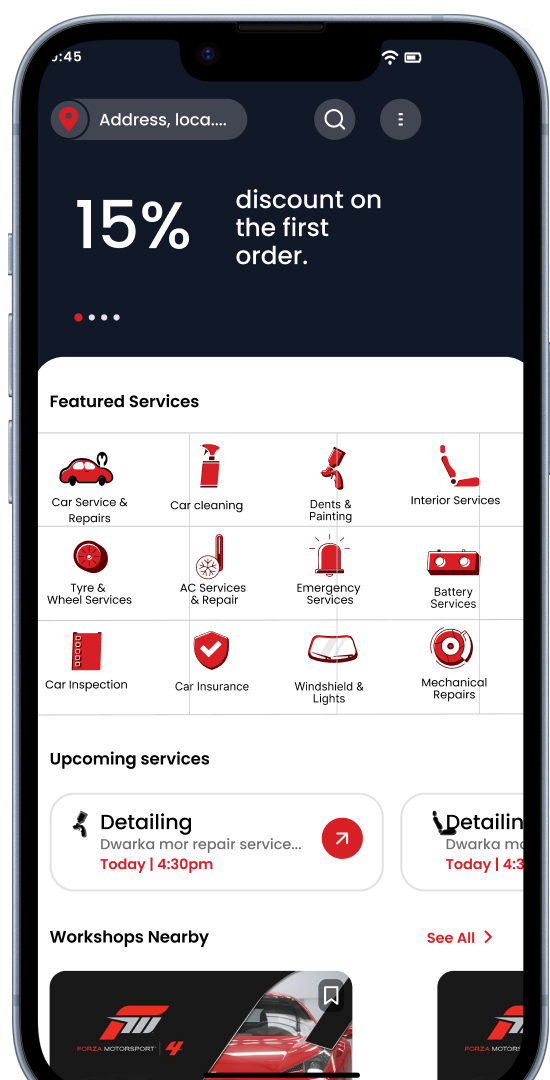
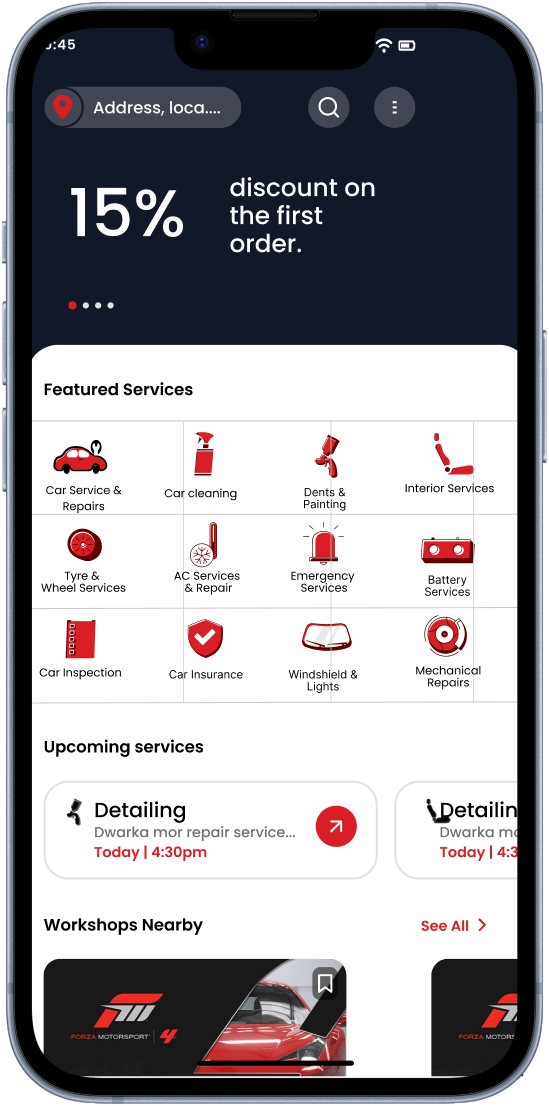
edges fixed

diff --git a/src/components/Hero.tsx b/src/components/Hero.tsx
@@ -79,37 +79,44 @@ const Hero: React.FC = () => {
                 phone mockups are sized by height, not width: the two PNGs have
                 different aspect ratios, so a shared width renders them at
                 different heights and the cards look uneven. */}
-            <div className="flex items-center justify-between gap-6 overflow-hidden rounded-[24px] bg-[#fff1f2] p-8 shadow-[0px_1px_2px_rgba(0,0,0,0.05)]">
-              <div className="flex flex-col">
+            <div className="flex items-stretch justify-between gap-6 overflow-hidden rounded-[24px] bg-[#fff1f2] p-8 shadow-[0px_1px_2px_rgba(0,0,0,0.05)]">
+              <div className="flex min-w-0 flex-1 flex-col">
                 <div className="flex items-center gap-3">
                   <Car className="shrink-0 text-brand-red" size={32} />
                   <h3 className="text-2xl font-bold leading-[30px] text-[#111827]">
                     I&apos;m a Car Owner
                   </h3>
                 </div>
+                {/* The two blurbs wrap to different line counts, and how many
+                    depends on the card width, so reserving a fixed number of
+                    lines only aligns the buttons at some breakpoints. Pinning
+                    the divider+button block to the bottom of a stretched column
+                    keeps both cards' buttons on one baseline at every width. */}
                 <p className="mt-4 max-w-[320px] text-base font-medium leading-6 text-[#4b5563]">
                   Find trusted garages, compare prices, and book your next
                   service.
                 </p>
-                <div className="mt-6 h-1 w-8 rounded-full bg-[#fecaca]" />
-                <a
-                  href={APP_LINKS.customerAndroid}
-                  target="_blank"
-                  rel="noopener noreferrer"
-                  className="mt-7 self-start rounded-[8px] bg-[#e11d48] px-8 py-3 text-base font-medium leading-6 text-white shadow-[0px_4px_6px_-1px_rgba(0,0,0,0.1),0px_2px_4px_-2px_rgba(0,0,0,0.1)] transition-opacity hover:opacity-90"
-                >
-                  Download Customer App
-                </a>
+                <div className="mt-auto pt-6">
+                  <div className="h-1 w-8 rounded-full bg-[#fecaca]" />
+                  <a
+                    href={APP_LINKS.customerAndroid}
+                    target="_blank"
+                    rel="noopener noreferrer"
+                    className="mt-7 inline-block rounded-[8px] bg-[#e11d48] px-8 py-3 text-base font-medium leading-6 text-white shadow-[0px_4px_6px_-1px_rgba(0,0,0,0.1),0px_2px_4px_-2px_rgba(0,0,0,0.1)] transition-opacity hover:opacity-90"
+                  >
+                    Download Customer App
+                  </a>
+                </div>
               </div>
               <img
                 src="/hero-phone-customer.png"
                 alt="Keplix customer app"
-                className="hidden h-[280px] w-auto shrink-0 object-contain sm:block lg:h-[320px]"
+                className="hidden h-[280px] w-auto shrink-0 self-center object-contain sm:block lg:h-[320px]"
               />
             </div>
 
-            <div className="flex items-center justify-between gap-6 overflow-hidden rounded-[24px] bg-[#eff6ff] p-8 shadow-[0px_1px_2px_rgba(0,0,0,0.05)]">
-              <div className="flex flex-col">
+            <div className="flex items-stretch justify-between gap-6 overflow-hidden rounded-[24px] bg-[#eff6ff] p-8 shadow-[0px_1px_2px_rgba(0,0,0,0.05)]">
+              <div className="flex min-w-0 flex-1 flex-col">
                 <div className="flex items-center gap-3">
                   <Warehouse className="shrink-0 text-[#1f41af]" size={32} />
                   <h3 className="text-2xl font-bold leading-[30px] text-[#111827]">
@@ -120,18 +127,20 @@ const Hero: React.FC = () => {
                   Grow your business, receive verified bookings, and manage
                   everything digitally.
                 </p>
-                <div className="mt-6 h-1 w-8 rounded-full bg-[#bfdbfe]" />
-                <button
-                  onClick={() => navigate('/business')}
-                  className="mt-7 self-start rounded-[8px] bg-[#1f41af] px-8 py-3 text-base font-medium leading-6 text-white shadow-[0px_4px_6px_-1px_rgba(0,0,0,0.1),0px_2px_4px_-2px_rgba(0,0,0,0.1)] transition-opacity hover:opacity-90"
-                >
-                  Become a Garage Partner
-                </button>
+                <div className="mt-auto pt-6">
+                  <div className="h-1 w-8 rounded-full bg-[#bfdbfe]" />
+                  <button
+                    onClick={() => navigate('/business')}
+                    className="mt-7 inline-block rounded-[8px] bg-[#1f41af] px-8 py-3 text-base font-medium leading-6 text-white shadow-[0px_4px_6px_-1px_rgba(0,0,0,0.1),0px_2px_4px_-2px_rgba(0,0,0,0.1)] transition-opacity hover:opacity-90"
+                  >
+                    Become a Garage Partner
+                  </button>
+                </div>
               </div>
               <img
                 src="/hero-phone-garage.png"
                 alt="Keplix garage partner app"
-                className="hidden h-[280px] w-auto shrink-0 object-contain sm:block lg:h-[320px]"
+                className="hidden h-[280px] w-auto shrink-0 self-center object-contain sm:block lg:h-[320px]"
               />
             </div>
           </div>

diff --git a/src/pages/Beta.tsx b/src/pages/Beta.tsx
@@ -71,24 +71,33 @@ const Beta = () => {
     }
   ];
 
+  // Placeholder copy until real beta feedback comes in — see note in the UI.
+  // Deliberately no stock photos: attaching a real stranger's face to an
+  // invented quote is the part that actually misleads people.
   const testimonials = [
     {
-      name: "Rajesh Kumar",
-      role: "Fleet Manager",
-      image: "https://images.pexels.com/photos/2379004/pexels-photo-2379004.jpeg?auto=compress&cs=tinysrgb&w=400",
-      quote: "Keplix beta has transformed how we manage our company fleet. The transparency and ease of booking is incredible!"
+      name: "Arjun Malhotra",
+      role: "Car Owner · Gurugram",
+      initials: "AM",
+      accent: "bg-brand-red/10 text-brand-red",
+      quote:
+        "I'd been going to the same garage for years without ever questioning the bill. Comparing three quotes for my Creta's 40,000 km service saved me close to ₹4,000, and the workshop sent photos before they started work."
     },
     {
-      name: "Priya Sharma",
-      role: "Car Owner",
-      image: "https://images.pexels.com/photos/3756679/pexels-photo-3756679.jpeg?auto=compress&cs=tinysrgb&w=400",
-      quote: "Finally, a platform that makes car servicing stress-free. The real-time tracking feature is a game-changer."
+      name: "Meera Krishnan",
+      role: "Fleet Manager · Noida",
+      initials: "MK",
+      accent: "bg-emerald-500/10 text-emerald-600",
+      quote:
+        "We run fourteen cabs and servicing used to mean a dozen phone calls a week. Now it's one place, and I finally have a service history I can pull up when a driver tells me something was already replaced."
     },
     {
-      name: "Amit Patel",
-      role: "Business Owner",
-      image: "https://images.pexels.com/photos/3785077/pexels-photo-3785077.jpeg?auto=compress&cs=tinysrgb&w=400",
-      quote: "The beta program gave us insights into the future of automotive care. Highly recommended!"
+      name: "Sandeep Rawat",
+      role: "Car Owner · Delhi",
+      initials: "SR",
+      accent: "bg-partner/10 text-partner",
+      quote:
+        "Requested a pickup at nine in the evening honestly expecting nothing till morning. Someone called back within ten minutes and the car was collected the next day. That's why I stayed on the beta."
     }
   ];
 
@@ -388,13 +397,14 @@ const Beta = () => {
                   className="bg-white border border-line-soft shadow-card rounded-xl p-6 hover:shadow-cardHover transition-all duration-300"
                 >
                   <div className="flex items-start gap-4">
-                    <img 
-                      src={testimonial.image}
-                      alt={testimonial.name}
-                      className="w-12 h-12 rounded-full object-cover border-2 border-brand-red/20"
-                    />
+                    <div
+                      aria-hidden
+                      className={`flex h-12 w-12 shrink-0 items-center justify-center rounded-full text-sm font-bold ${testimonial.accent}`}
+                    >
+                      {testimonial.initials}
+                    </div>
                     <div className="flex-1">
-                      <p className="text-ink-body mb-4 italic">"{testimonial.quote}"</p>
+                      <p className="text-ink-body mb-4 italic">&ldquo;{testimonial.quote}&rdquo;</p>
                       <div>
                         <div className="text-ink-heading font-semibold">{testimonial.name}</div>
                         <div className="text-brand-red text-sm">{testimonial.role}</div>

diff --git a/src/index.css b/src/index.css
@@ -35,10 +35,16 @@ body {
 
 /* Rendered blog article body (HTML from the admin editor). Tailwind's preflight
    strips default heading/list styles, so they're restored here. */
+/* Post bodies are author-supplied HTML from the admin panel, so they can
+   contain anything: pasted tables, bare URLs, embeds. Everything below is
+   about making unpredictable content stay inside the viewport on a phone. */
 .blog-body {
   color: #374151;
   font-size: 1.0625rem;
   line-height: 1.8;
+  /* A long unbroken URL is wider than a phone screen and would otherwise
+     push the whole article sideways. */
+  overflow-wrap: break-word;
 }
 .blog-body > * + * { margin-top: 1.25rem; }
 .blog-body h1,
@@ -77,6 +83,29 @@ body {
 }
 .blog-body code { font-family: ui-monospace, SFMono-Regular, Menlo, monospace; font-size: 0.9em; }
 .blog-body hr { border: 0; border-top: 1px solid #e5e7eb; }
+/* A table can't reflow to a narrow screen, so let it scroll inside its own
+   box rather than widening the page. display:block is what makes overflow-x
+   apply to a <table> at all. */
+.blog-body table {
+  display: block;
+  max-width: 100%;
+  overflow-x: auto;
+  border-collapse: collapse;
+  font-size: 0.95em;
+}
+.blog-body th,
+.blog-body td {
+  border: 1px solid #e5e7eb;
+  padding: 0.5rem 0.75rem;
+  text-align: left;
+}
+.blog-body th { background: #f9fafb; color: #111827; font-weight: 700; }
+/* Embedded players/media default to a fixed width in pasted markup. */
+.blog-body iframe,
+.blog-body video,
+.blog-body embed {
+  max-width: 100%;
+}
 
 /* Custom animations */
 @keyframes fade-in {
